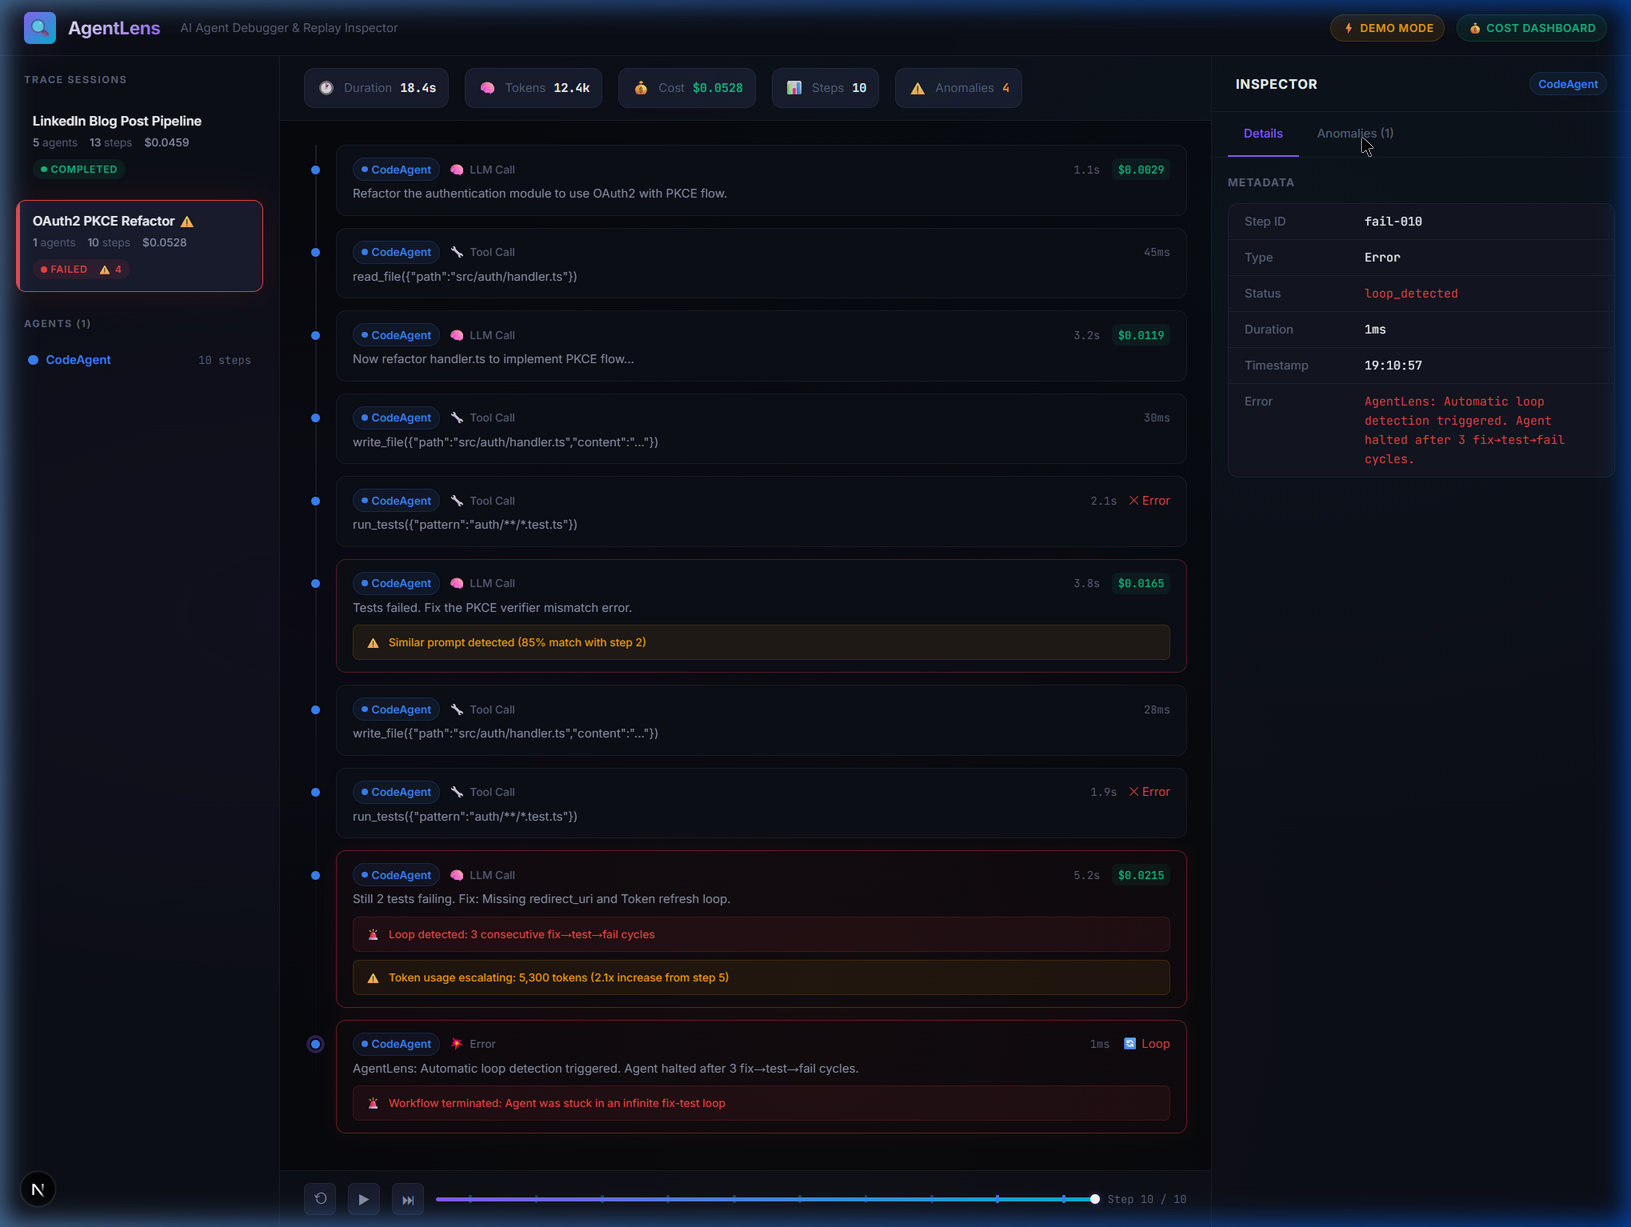
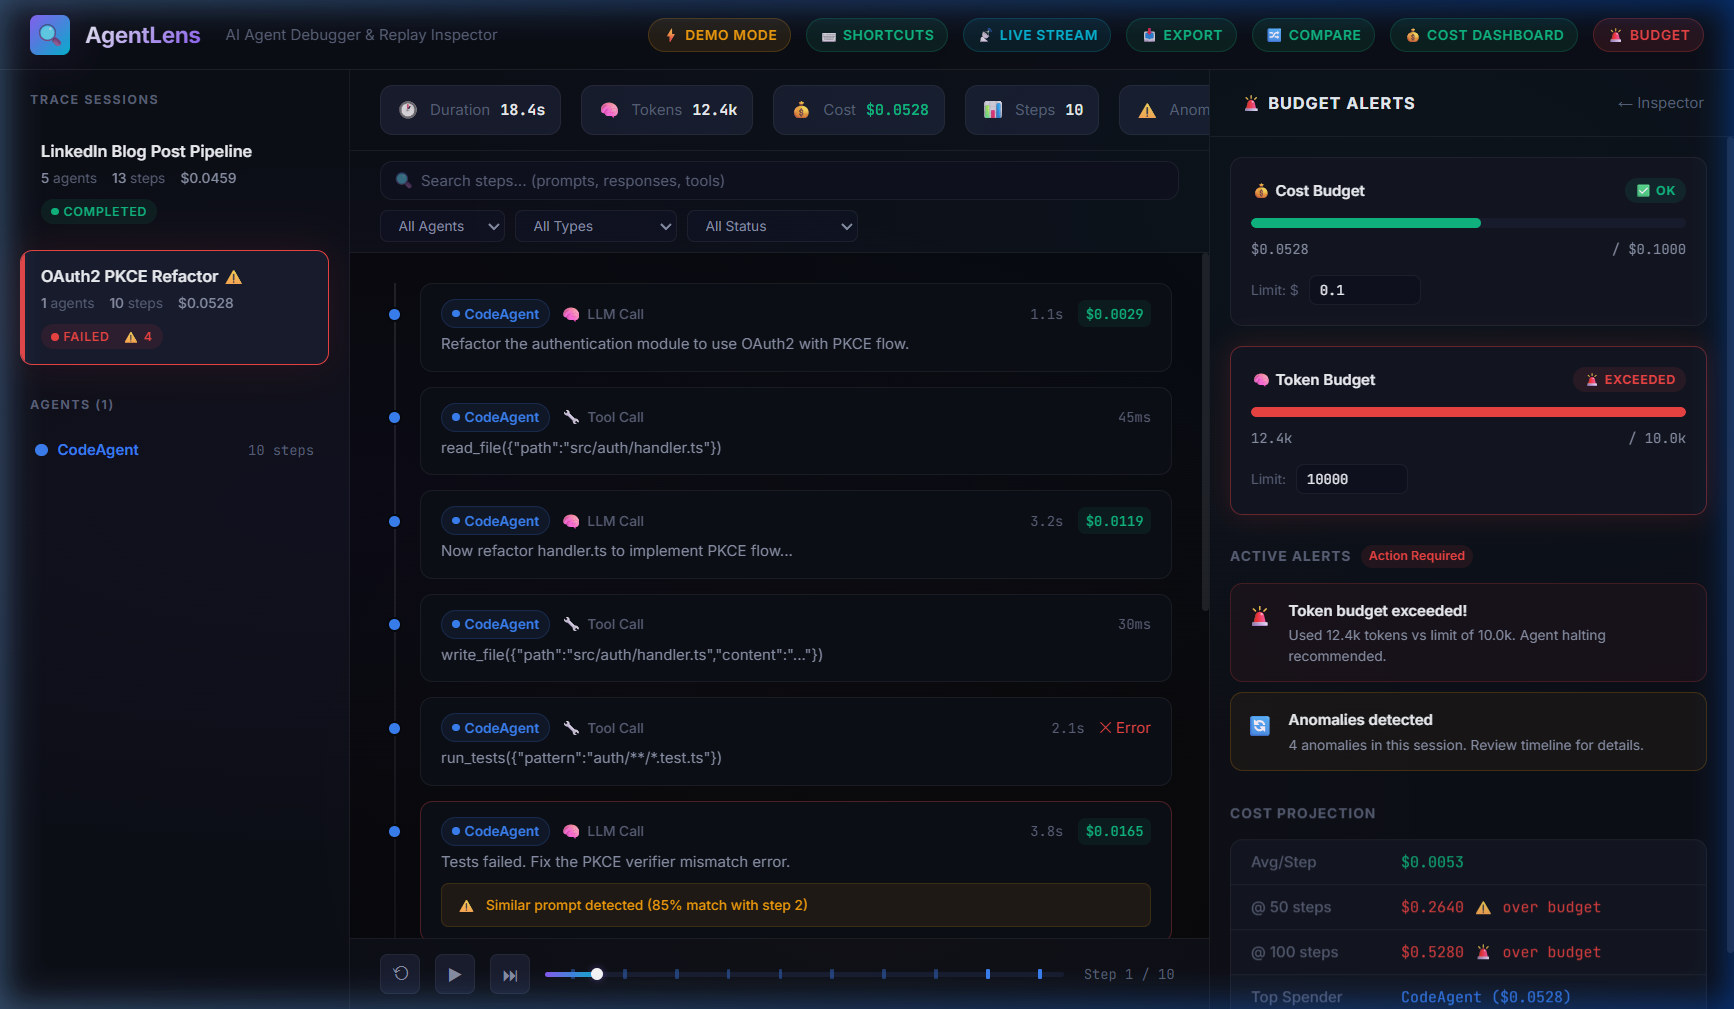
docs: update screenshots with latest features (budget alerts, compare view, search, inspector)

diff --git a/README.md b/README.md
@@ -24,7 +24,12 @@
 
 <p align="center">
   <img src="docs/hero-cost-dashboard.png" alt="AgentLens Cost Dashboard" width="49%">
-  <img src="docs/anomaly-detection.png" alt="AgentLens Anomaly Detection" width="49%">
+  <img src="docs/anomaly-detection.png" alt="AgentLens Budget Alerts & Anomaly Detection" width="49%">
+</p>
+
+<p align="center">
+  <img src="docs/compare-view.png" alt="AgentLens Run Comparison" width="49%">
+  <img src="docs/search-filter.png" alt="AgentLens Search & Filter" width="49%">
 </p>
 
 ---
